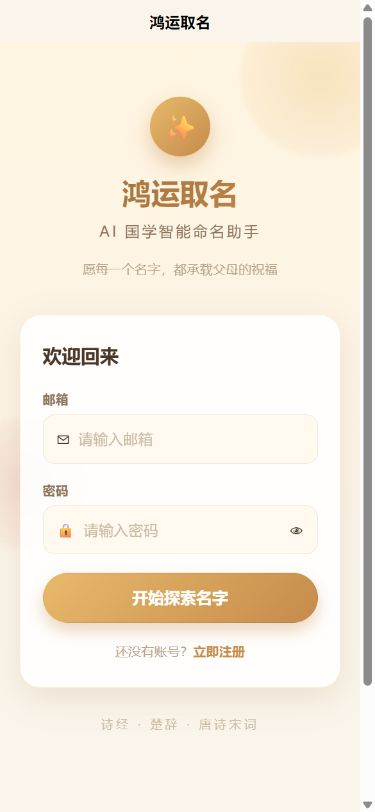
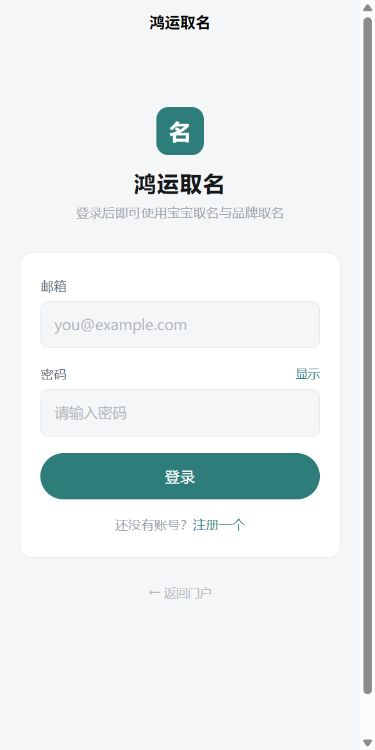
docs: 项目截图更新为新版界面（门户/选择/登录/对话/宝宝取名/博客）

diff --git a/README.md b/README.md
@@ -132,13 +132,17 @@
 
 ## 📷 项目截图
 
-| 登录页 | 注册页 |
-|--------|--------|
-| ![登录页](docs/screenshots/login.png) | ![注册页](docs/screenshots/register.png) |
-
-| 取名页 | 我的收藏 |
+| 门户 | 功能选择 |
 |--------|----------|
-| ![取名页](docs/screenshots/name-input.png) | ![我的收藏](docs/screenshots/favorite.png) |
+| ![门户](docs/screenshots/portal.png) | ![功能选择](docs/screenshots/select.png) |
+
+| 登录页 | 品牌取名（对话版） |
+|--------|--------------------|
+| ![登录页](docs/screenshots/login.png) | ![品牌取名](docs/screenshots/chat.png) |
+
+| 宝宝取名 | 技术博客 |
+|----------|----------|
+| ![宝宝取名](docs/screenshots/name-input.png) | ![技术博客](docs/screenshots/blog.png) |
 
 
 ## 📂 项目结构
